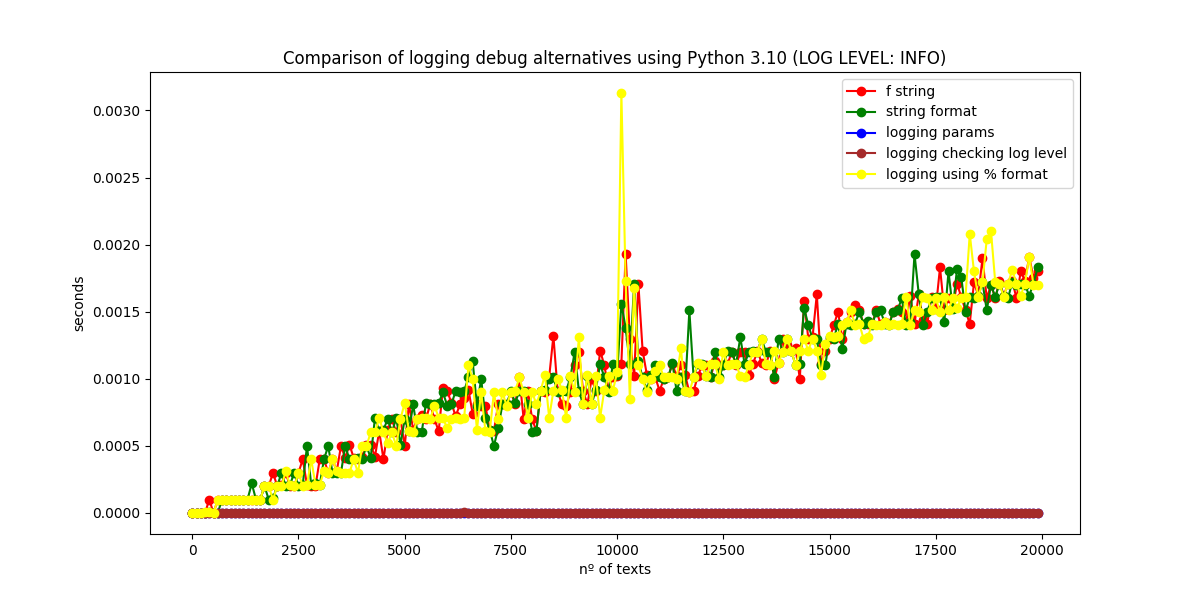
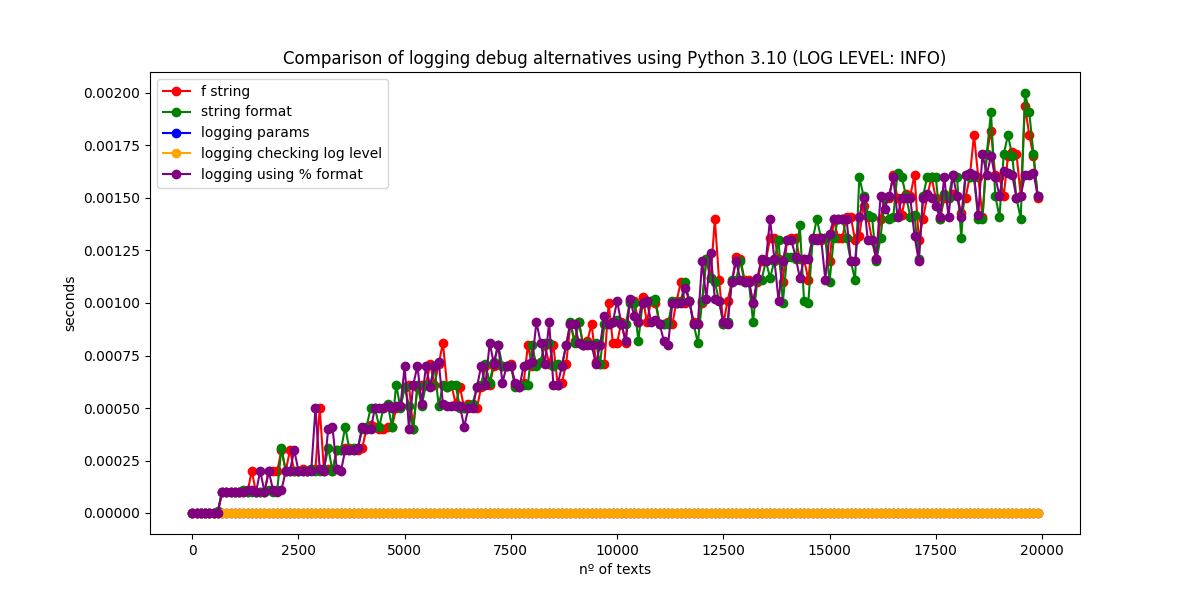
adjust colors

diff --git a/logging_ways.py b/logging_ways.py
@@ -4,7 +4,7 @@ from typing import List
 
 from utils import timeit, plot
 
-logging.basicConfig(level=logging.DEBUG)
+logging.basicConfig(level=logging.INFO)
 logger = logging.getLogger(__name__)
 
 
@@ -62,7 +62,7 @@ if __name__ == "__main__":
     with open("results/python_logging_ways.json", "w") as fp:
         json.dump(results, fp=fp)
 
-    plot(title="Comparison of logging debug alternatives using Python 3.10 (LOG LEVEL: DEBUG)",
+    plot(title="Comparison of logging debug alternatives using Python 3.10 (LOG LEVEL: INFO)",
          xs=('nº of texts', xs),
          values=[('f string', f_string_ys),
                  ('string format', string_format_ys),

diff --git a/utils.py b/utils.py
@@ -25,7 +25,7 @@ def plot(title: str, xs: Tuple[str, List[int]], values: List[Tuple[str, List[int
     import matplotlib.pyplot as plt
     plt.figure(figsize=(12, 6))
     x_legend, xs = xs
-    colors = ('red', 'green', 'blue', 'brown', 'yellow', 'black')
+    colors = ('red', 'green', 'blue', 'orange', 'purple', 'cyan', 'magenta', 'yellow', 'brown', 'black')
 
     for idx, r in enumerate(values):
         legend, results = r
